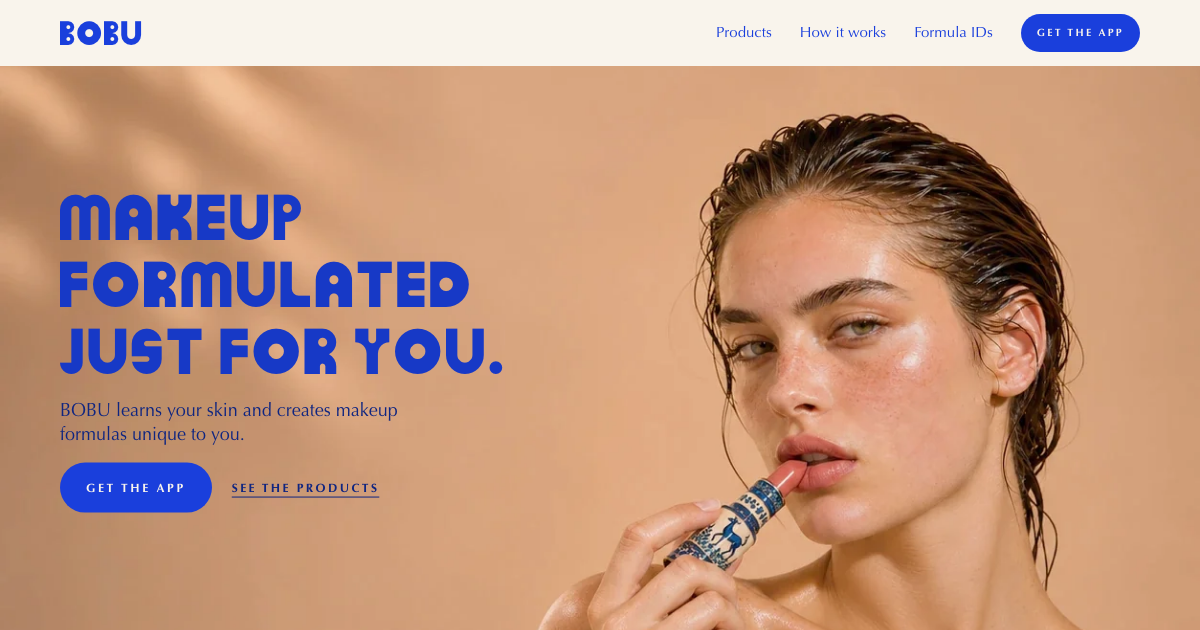
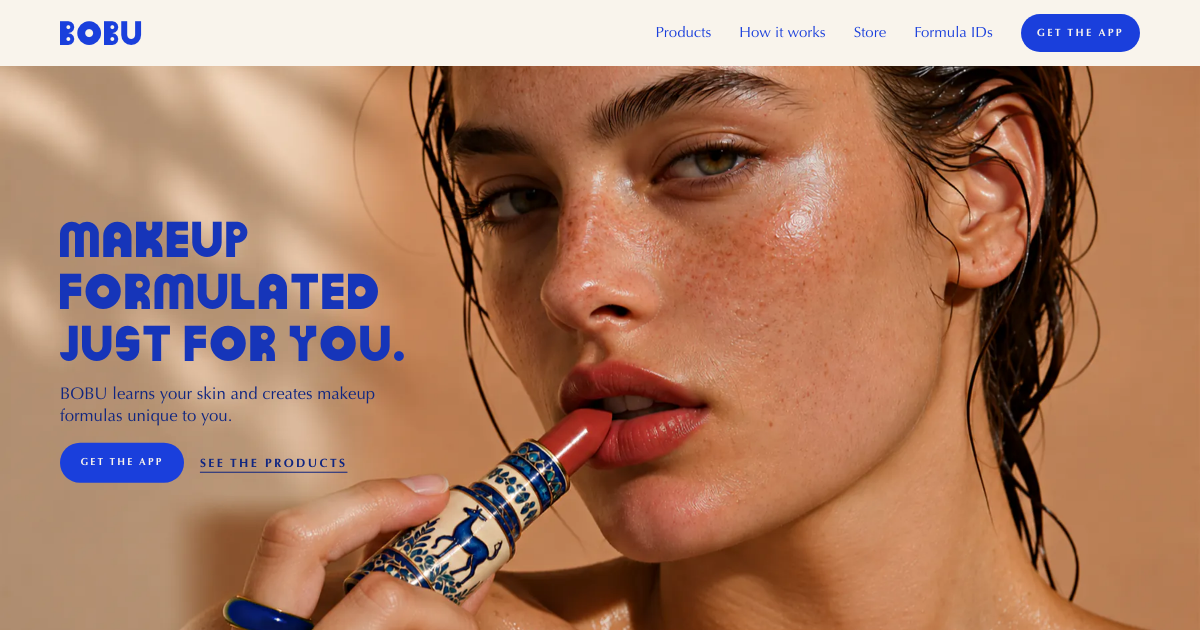
Closer, sharper landing photos: separate crops for desktop and phone

diff --git a/styles.css b/styles.css
@@ -108,8 +108,8 @@ button { font: inherit; color: inherit; background: none; border: 0; padding: 0;
 .hero-actions { display: flex; align-items: center; gap: 22px; margin: 18px 0 12px; flex-wrap: wrap; }
 .hero-page .idcard { order: 1; margin: 18px var(--gutter) 40px; }
 /* The landing photo fills the section, and the words sit straight on its open wall. */
-.hero-home { --hu: min(1vw, 5.2px); display: block; position: relative; overflow: hidden; margin-top: var(--nav); padding: 0; height: calc(174 * var(--hu)); background: var(--hero); }
-.hero-photo { position: absolute; top: 0; right: 0; width: calc(203 * var(--hu)); height: calc(203 * var(--hu)); max-width: none; }
+.hero-home { --hu: min(1vw, 5.2px); display: block; position: relative; overflow: hidden; margin-top: var(--nav); padding: 0; height: min(169.4vw, calc(100svh - var(--nav))); background: var(--hero); }
+.hero-photo { position: absolute; inset: 0; width: 100%; height: 100%; max-width: none; object-fit: cover; object-position: 50% 70%; }
 .hero-home .hero-words { display: block; position: relative; z-index: 1; padding: calc(4 * var(--hu)) var(--gutter) 0; }
 .hero-home h1 { color: color-mix(in srgb, var(--ink) 90%, #000); font-size: calc(9.8 * var(--hu)); text-align: left; padding: 0; margin-bottom: calc(1.5 * var(--hu)); }
 .hero-home .hero-foot { padding: 0; }
@@ -230,13 +230,13 @@ button { font: inherit; color: inherit; background: none; border: 0; padding: 0;
   .hero-foot { padding: 0; }
   .hero-foot .lede { font-size: clamp(18px, 1.5vw, 22px); }
   .hero-actions { margin: 24px 0 14px; }
-  .hero-home { display: block; min-height: 0; padding: 0; height: min(calc(100svh - var(--nav)), 62vw); }
-  .hero-photo { inset: 0; width: 100%; height: 100%; object-fit: cover; object-position: 50% 50%; }
-  .hero-home .hero-words { position: absolute; left: var(--gutter); top: 50%; transform: translateY(-50%); width: 44vw; padding: 0; }
-  .hero-home h1 { font-size: clamp(44px, min(5.4vw, 13svh), 104px); margin-bottom: 1.1vw; }
-  .hero-home .lede { font-size: clamp(16px, 1.5vw, 28px); max-width: 34vw; }
-  .hero-home .hero-actions { gap: 20px; margin: 1.4vw 0 0; }
-  .hero-home .pill { min-height: 50px; padding: 0 26px; font-size: 12px; }
+  .hero-home { display: block; min-height: 0; padding: 0; height: min(calc(100svh - var(--nav)), 48.6vw); }
+  .hero-photo { object-position: 50% 70%; }
+  .hero-home .hero-words { position: absolute; left: var(--gutter); top: 50%; transform: translateY(-50%); width: 30vw; padding: 0; }
+  .hero-home h1 { color: color-mix(in srgb, var(--ink) 84%, #000); font-size: clamp(34px, 4.2vw, 96px); margin-bottom: 1vw; }
+  .hero-home .lede { font-size: clamp(14px, 1.4vw, 28px); max-width: none; }
+  .hero-home .hero-actions { gap: 16px; margin: 1.3vw 0 0; }
+  .hero-home .pill { min-height: clamp(40px, 3.3vw, 56px); padding: 0 clamp(16px, 1.7vw, 28px); font-size: clamp(10px, .8vw, 13px); }
   .hero-page { min-height: 86svh; padding-bottom: 48px; }
   .hero-page .idcard { margin: 0; width: min(36vw, 400px); }
 

diff --git a/index.html b/index.html
@@ -16,7 +16,7 @@
 <link rel="icon" href="assets/icon.png">
 <link rel="apple-touch-icon" href="assets/icon.png">
 <link rel="preload" href="assets/fonts/BOBUSignature-Regular.woff2" as="font" type="font/woff2" crossorigin>
-<link rel="stylesheet" href="styles.css?v=50">
+<link rel="stylesheet" href="styles.css?v=53">
 </head>
 <body>
 
@@ -34,7 +34,10 @@
 <main id="top">
 
   <section class="hero hero-home">
-    <img class="hero-photo" src="assets/photo/lipstick-wall.webp" width="1254" height="1254" fetchpriority="high" alt="A woman with freckles and wet hair putting on a coral lipstick from an enamelled tube, in front of a warm wall with palm shadows">
+    <picture>
+      <source media="(min-width: 821px)" srcset="assets/photo/lipstick-wide-1800.webp 1800w, assets/photo/lipstick-wide-3000.webp 3000w" sizes="100vw">
+      <img class="hero-photo" src="assets/photo/lipstick-tall-860.webp" srcset="assets/photo/lipstick-tall-860.webp 860w, assets/photo/lipstick-tall-1170.webp 1170w" sizes="100vw" width="1170" height="1980" fetchpriority="high" alt="A close-up of a woman with freckles and wet hair putting on a coral lipstick from an enamelled tube">
+    </picture>
     <div class="hero-words">
       <h1 class="display">Makeup formulated just for you.</h1>
       <div class="hero-foot">
@@ -173,6 +176,6 @@
   <img class="footer-panther" src="assets/art/panther-sitting.svg" alt="" loading="lazy">
 </footer>
 
-<script src="app.js?v=50" defer></script>
+<script src="app.js?v=53" defer></script>
 </body>
 </html>

diff --git a/formulas.html b/formulas.html
@@ -16,7 +16,7 @@
 <link rel="icon" href="assets/icon.png">
 <link rel="apple-touch-icon" href="assets/icon.png">
 <link rel="preload" href="assets/fonts/BOBUSignature-Regular.woff2" as="font" type="font/woff2" crossorigin>
-<link rel="stylesheet" href="styles.css?v=50">
+<link rel="stylesheet" href="styles.css?v=53">
 </head>
 <body>
 
@@ -98,6 +98,6 @@
   <img class="footer-panther" src="assets/art/panther-sitting.svg" alt="" loading="lazy">
 </footer>
 
-<script src="app.js?v=50" defer></script>
+<script src="app.js?v=53" defer></script>
 </body>
 </html>
